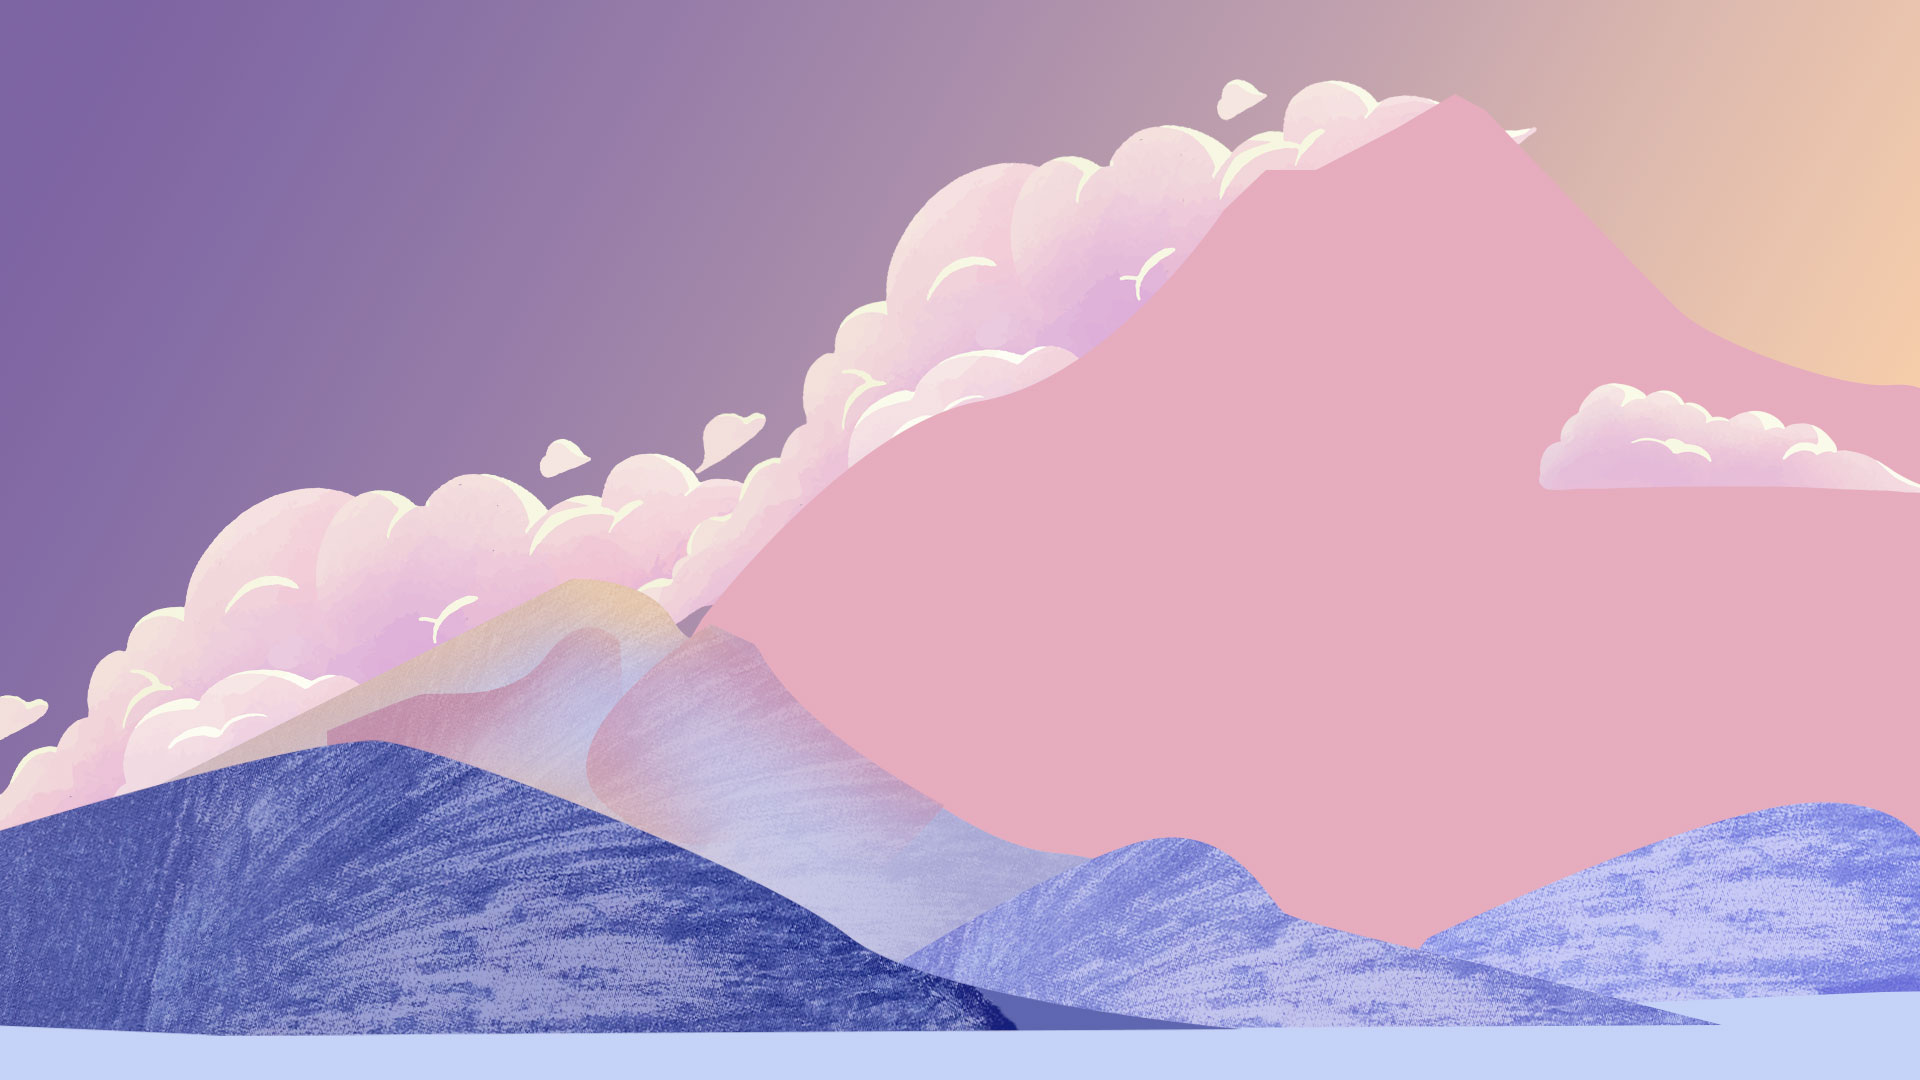
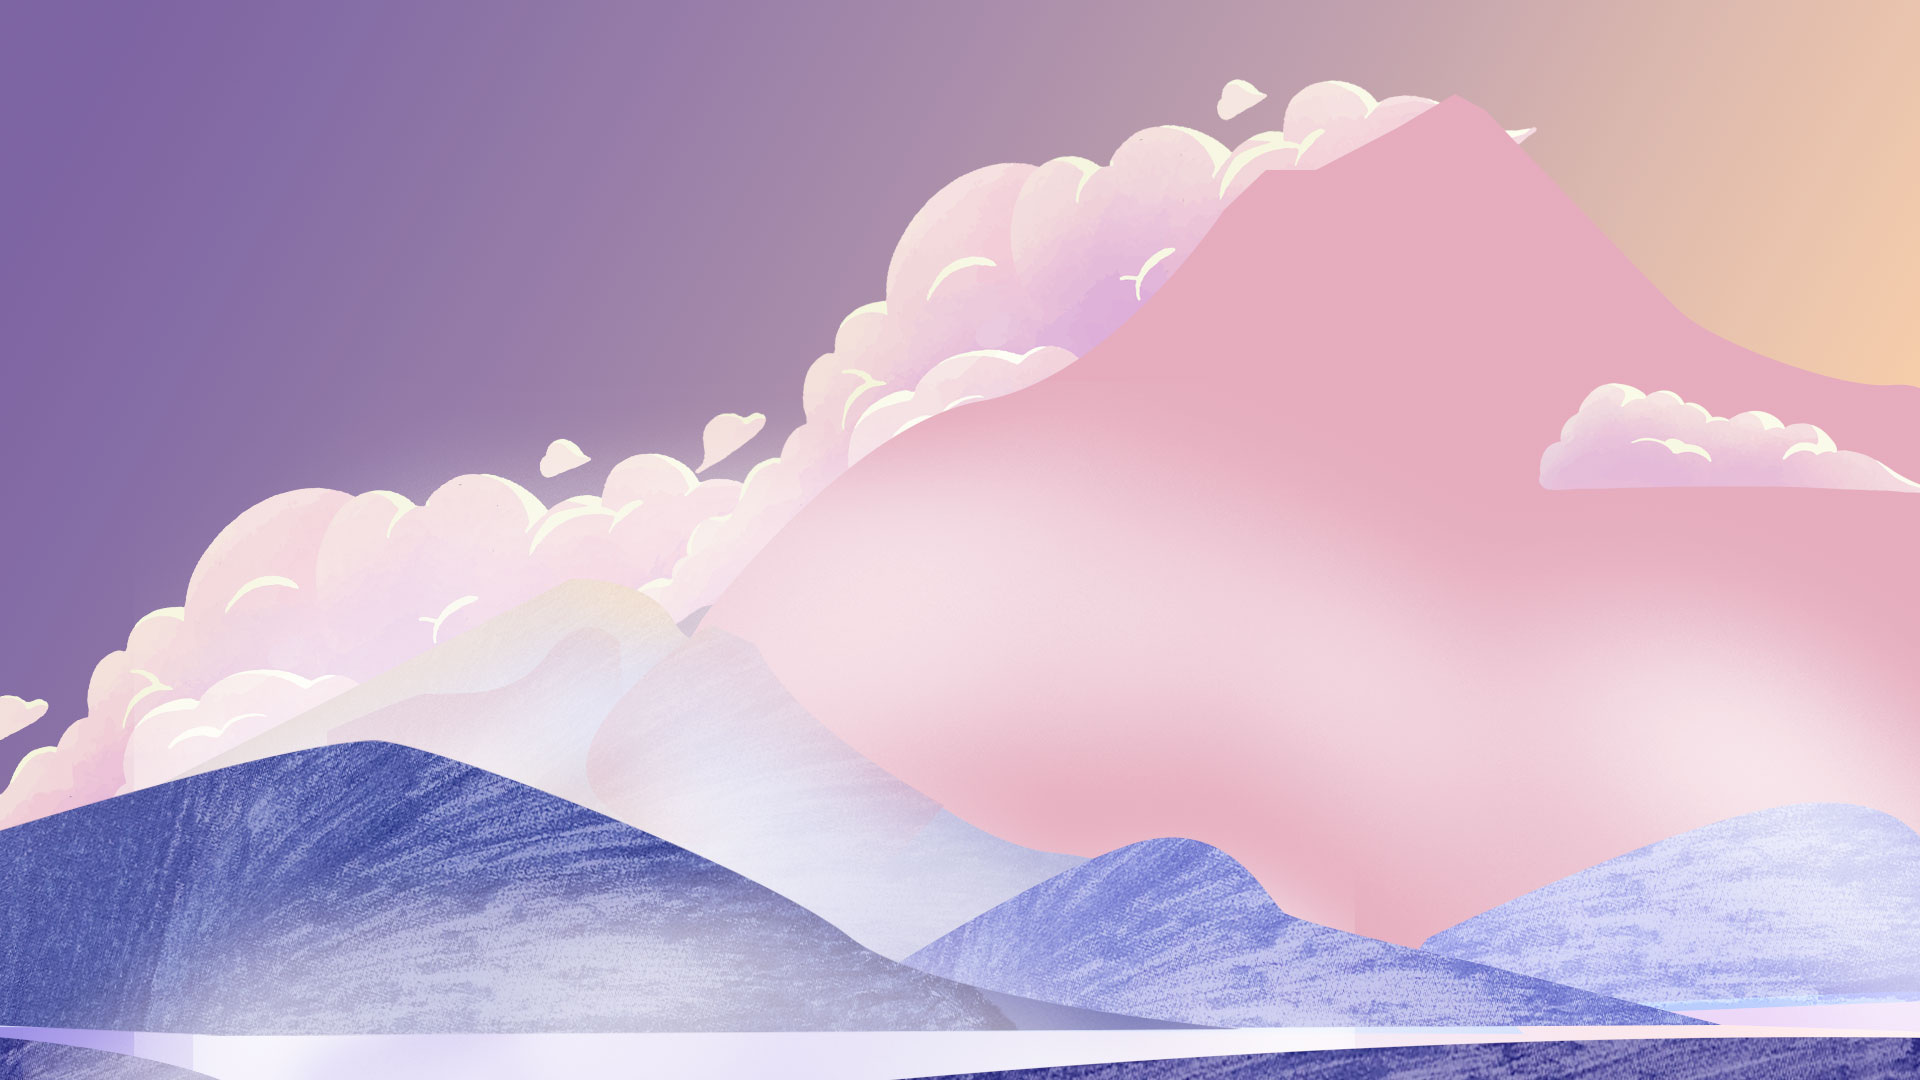
Add repeat

diff --git a/pages/index.tsx b/pages/index.tsx
@@ -1,16 +1,19 @@
 import Section from "@aura-design/system/section";
 import Grid from "@aura-design/system/grid";
+import Button from "@aura-design/system/button";
 import dynamic from "next/dynamic";
 
+import Layout from "@/components/Layout";
 const Flight = dynamic(() => import("@/components/Flight"), { ssr: false });
+const FlightSecond = dynamic(() => import("@/components/FlightSecond"), { ssr: false });
 const Grass = dynamic(() => import("@/components/Grass"), { ssr: false });
 
 const Home = ({ doc, menu }) => {
   return (
-    <>
+    <Layout>
       <Section
         color="pink"
-        className="h-[100vh]"
+        className="h-[100vh] relative"
         subClassName="vfluid"
         style={{
           backgroundImage: "url('./mountain.jpg')",
@@ -20,18 +23,27 @@ const Home = ({ doc, menu }) => {
       >
         <div className="absolute left-0 right-0">
           <Flight />
+          <FlightSecond />
         </div>
         <div className="absolute bottom-0 right-0">
-        <Grass />
+          <Grass />
         </div>
         <Grid col="two" className="vfluid">
           <div className="valign">
-            <h1>Te doy la bienvenida a mi imaginación</h1>
+            <Grid col="one" className="z-10">
+              <h1>Te doy la bienvenida a mi imaginación</h1>
+              <p className="h6">
+                Garitma nace de golpe. Un golpe al teclado con el fin de buscar
+                un nombre sin sentido que fue corregido hasta tener sentido.
+                Hoy, Garitma significa, "No te preocupes".
+              </p>
+              <Button label="Comienza el viaje" />
+            </Grid>
           </div>
         </Grid>
       </Section>
       <Section color="pink" className="h-[100vh]"></Section>
-    </>
+    </Layout>
   );
 };
 

diff --git a/components/Header.tsx b/components/Header.tsx
@@ -1,0 +1,56 @@
+import { useState } from "react";
+import Link from "next/link";
+import { MenuIcon, CloseIcon } from "@aura-design/system/dist/icons";
+import Button from "@aura-design/system/button";
+import Image from "next/image";
+
+const Header = () => {
+  const [isOpen, setIsOpen] = useState(false);
+
+  return (
+    <header className="absolute top-0 left-0 right-0">
+      <div className="smush">
+        <ul className="nav-list h-6">
+          <li className="item valign">
+            <Link href="/" className="halo">
+              <Image src="/logo.png" width={60} height={60} alt="Logo" />
+            </Link>
+          </li>
+          <li></li>
+          <li className="hide-large">
+            <Button mode="link" onClick={() => setIsOpen(true)}>
+              <MenuIcon />
+            </Button>
+          </li>
+          <li className="hide-medium hide-small">
+            <ul className="nav-list">
+              {/* <Menu
+                onClose={() => setIsOpen(false)}
+                menuTabs={menu.data.menuTabs}
+              /> */}
+            </ul>
+          </li>
+        </ul>
+      </div>
+      <div
+        className={`anchor fluid vfluid hold left top right bottom white aura ${
+          !isOpen ? "hidden" : "active"
+        }`}
+      >
+        <ul className="top right left bottom aureole one centertxt square">
+          <ul className="nav-list">
+            <li></li>
+            <li></li>
+            <li>
+              <Button mode="link" onClick={() => setIsOpen(false)}>
+                <CloseIcon />
+              </Button>
+            </li>
+          </ul>
+        </ul>
+      </div>
+    </header>
+  );
+};
+
+export default Header;

diff --git a/components/HeadContent.tsx b/components/HeadContent.tsx
@@ -1,0 +1,31 @@
+const HeadContent = () => {
+  return (
+    <>
+      <link
+        rel="shortcut icon"
+        sizes="16x16 24x24 32x32 48x48 64x64"
+        href="/favicon.ico"
+      />
+      <link rel="icon" type="image/x-icon" href="/favicon.ico" />
+      <meta content="yes" name="apple-mobile-web-app-capable" />
+      <meta
+        name="apple-mobile-web-app-status-bar-style"
+        content="black-translucent"
+      />
+      <script
+        dangerouslySetInnerHTML={{
+          __html: ` (function(d) {
+                var config = {
+                  kitId: 'ybc4cml',
+                  scriptTimeout: 3000,
+                  async: true
+                },
+                h=d.documentElement,t=setTimeout(function(){h.className=h.className.replace(/\bwf-loading\b/g,"")+" wf-inactive";},config.scriptTimeout),tk=d.createElement("script"),f=false,s=d.getElementsByTagName("script")[0],a;h.className+=" wf-loading";tk.src='https://use.typekit.net/'+config.kitId+'.js';tk.async=true;tk.onload=tk.onreadystatechange=function(){a=this.readyState;if(f||a&&a!="complete"&&a!="loaded")return;f=true;clearTimeout(t);try{Typekit.load(config)}catch(e){}};s.parentNode.insertBefore(tk,s)
+              })(document);`,
+        }}
+      />
+    </>
+  );
+};
+
+export default HeadContent;

diff --git a/styles/main.css b/styles/main.css
@@ -1,6 +1,68 @@
+/* :::::::::: CSS STYLESHEET TEMPLATE :::::::::: */
+
+/* TOKENS */
+
 *:root {
   --aura-font-stack: ryo-gothic-plusn, sans-serif;
+  --aura-text-primary: #1d1f29;
+  --aura-accents-primary: #f5f7f9;
+  --aura-text-primary-inverse: #1d1f29;
+  --aura-button-hover: #f3e2e4;
 }
+
+/* TYPOGRAPHY */
+
+h1,
+h2,
+h3,
+h4,
+h5,
+h6 {
+  font-weight: 900;
+}
+
+
+/* LAYOUT */
+
+html,
+body,
+section {
+  block-size: 100%;
+}
+
+html {
+  scroll-snap-type: y;
+  overflow-x: hidden;
+}
+
+section {
+  scroll-snap-align: start;
+  scroll-snap-stop: always;
+
+  display: flex;
+  align-items: center;
+  justify-content: center;
+}
+
+.flip {
+  transform: scaleX(-1);
+}
+
+/* SPACING */
+
+/* COLORS */
+
+/* HELPERS */
+
+/* ATOMS */
+
+.button-fill {
+  border-color: #1d1f29
+}
+
+/* MOLECULES */
+
+/* ORGANISMS */
 
 #nprogress .bar {
   background: var(--aura-loader) !important;
@@ -9,25 +71,4 @@
 
 #nprogress .peg {
   display: none !important;
-}
-
-.flip {
-  transform: scaleX(-1);
-}
-
-html, body, section {
-  block-size: 100%;
-}
-
-html {
-  scroll-snap-type: y;
-}
-
-section {
-  scroll-snap-align: start;
-  scroll-snap-stop: always;
-  
-  display: flex;
-  align-items: center;
-  justify-content: center;
 }

diff --git a/components/FlightSecond.tsx b/components/FlightSecond.tsx
@@ -1,0 +1,58 @@
+import React, { useEffect, useState } from "react";
+import ReactBodymovin from "react-bodymovin";
+import { motion } from "framer-motion";
+
+import animation from "@/animations/flight.json";
+
+const Flight = () => {
+  const bodymovinOptions = {
+    loop: true,
+    autoplay: true,
+    prerender: true,
+    animationData: animation,
+  };
+
+  return (
+    <motion.div
+      initial={{
+        x: "-95%",
+        y: "-2%",
+      }}
+      animate={{
+        x: "100%",
+        y: [
+          "2%",
+          "-2%",
+          "2%",
+          "-2%",
+          "2%",
+          "-2%",
+          "2%",
+          "-2%",
+          "2%",
+          "-2%",
+          "2%",
+          "-2%",
+          "2%",
+          "-2%",
+          "2%",
+          "-2%",
+          "2%",
+          "-2%",
+          "2%",
+          "-2%",
+        ],
+      }}
+      transition={{
+        repeat: Infinity, // Infinity will make it loop indefinitely
+        duration: 60,
+        delay: 8,
+        repeatDelay: 0, // Optionally add a delay between each loop iteration
+      }}
+    >
+      <ReactBodymovin options={bodymovinOptions} />
+    </motion.div>
+  );
+};
+
+export default Flight;

diff --git a/pages/_document.tsx b/pages/_document.tsx
@@ -1,0 +1,19 @@
+import Document, { Html, Head, Main, NextScript } from "next/document";
+import HeadContent from "@/components/HeadContent";
+
+export default class extends Document {
+  render() {
+    return (
+      <Html lang="es-co">
+        <Head>
+          <meta charSet="UTF-8" />
+          <HeadContent />
+        </Head>
+        <body>
+          <Main />
+          <NextScript />
+        </body>
+      </Html>
+    );
+  }
+}

diff --git a/components/Layout.tsx b/components/Layout.tsx
@@ -1,0 +1,16 @@
+import Header from "@/components/Header";
+
+const Layout = ({ children }) => {
+  return (
+    <main>
+      <div className="page-pancake">
+        {/* <Meta {...seo} /> */}
+        <Header />
+        <div>{children}</div>
+        {/* <Footer footer={footer} /> */}
+      </div>
+    </main>
+  );
+};
+
+export default Layout;
